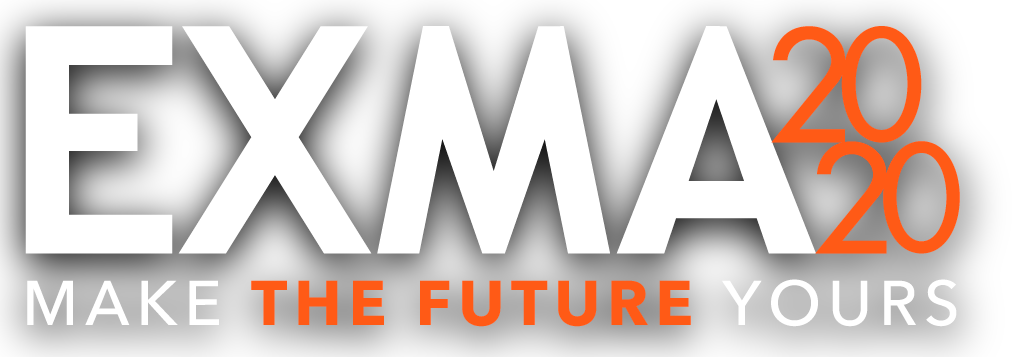
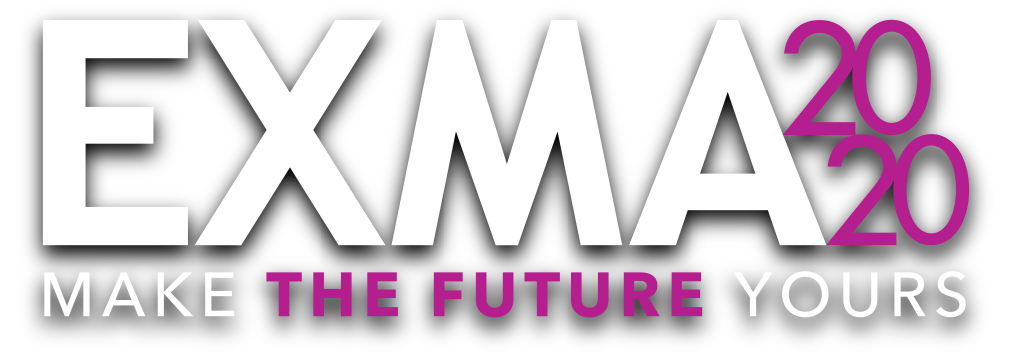
cambios en portada

diff --git a/index.html b/index.html
@@ -155,7 +155,7 @@
             <h1 class=""><img style="width: 100px" src="img/fecha.png"></h1>
             <img src="img/exma2020banner.png">
             <h1 class="">
-            <a style="border: none;background: rgb(246, 90, 24);padding: 10px;" data-aos="zoom-in" class="btnSlider" href="#tickets">LLÉVAME AL FUTURO</a>
+            <a style="background:#b41e8e;padding: 10px;" data-aos="zoom-in" class="btnSlider" href="#tickets">LLÉVAME AL FUTURO</a>
             <h1/>
           </div>
           
